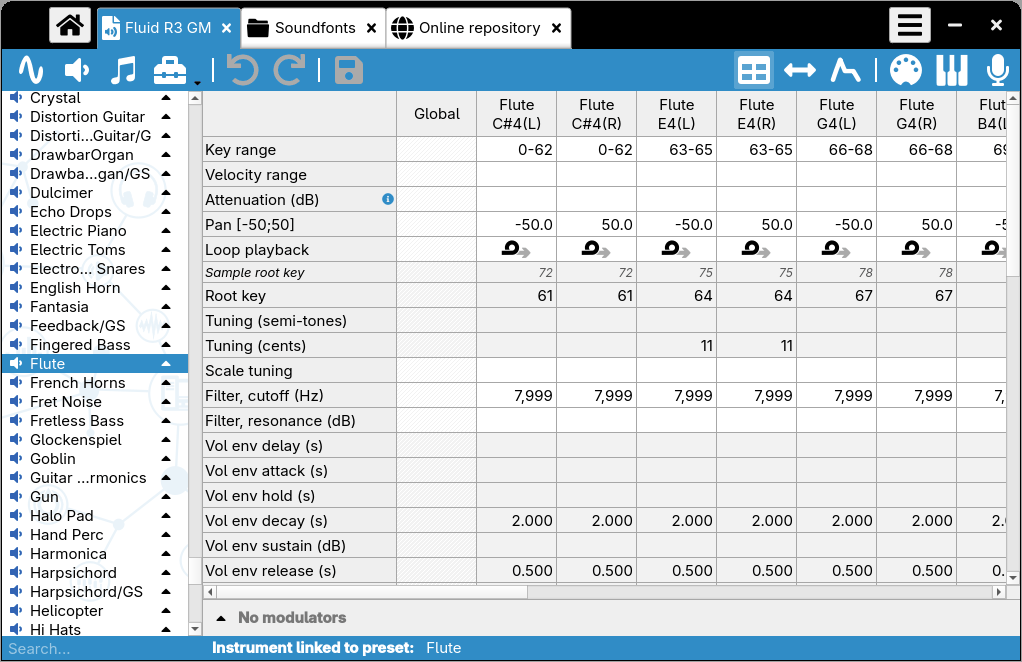
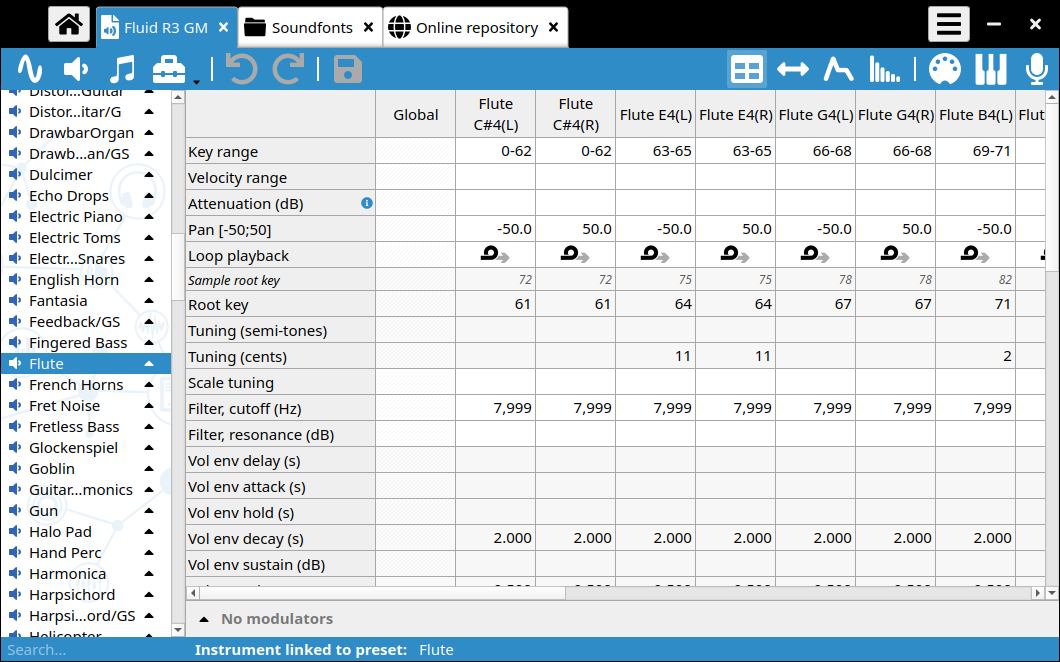
Description

Changed region(s): [[0.0, 0.0, 1.0, 1.0]]

diff --git a/README.md b/README.md
@@ -47,13 +47,15 @@ The [Polyphone plugin](#polyphone-plugin) then plays them in your DAW with the s
 - Tables showing all the parameters of samples, instruments and presets, where a value can be changed for several elements at once.
 - Sample editor: waveform with loop points, stereo editing, frequency analysis estimating the pitch and the tuning, 10-band equalizer.
 - Graphical editors for key and velocity ranges and for envelopes, with points that can be dragged with the mouse.
+- Timbre view of the instruments: the level of each harmonic heard on every key, revealing the breaks between samples, with corrections of the timbre or the level, computed notes and the removal of redundant samples.
 - Modulator editor, undo / redo, and a search field to find any sample, instrument or preset.
 
 ### Tools
 
 More than 30 tools automate the repetitive work, for example:
 
-- automatic loop of samples, cross-fade around the loop points, removal of the blank at the start;
+- automatic loop of samples, cross-fade around the loop points, trimming of the blank at the start and of the end after the loop;
+- creation of the missing samples of an instrument from the closest ones;
 - automatic positioning of the samples on the keyboard, transposition, detuning for celeste effects;
 - creation of chords, organ mixtures and natural releases;
 - volume, balance, attenuation, filtering and sound spatialization of many divisions at once;
@@ -62,6 +64,7 @@ More than 30 tools automate the repetitive work, for example:
 ### Playing
 
 - Built-in synthesizer with reverb and chorus, played with the virtual keyboard, a MIDI keyboard or the computer keyboard.
+- Tuning: reference pitch, transposition, and more than 200 historical temperaments and scales in any key or your own tuning note by note, also changed by MIDI messages.
 - Player mode turning Polyphone into a synthesizer that can play several instruments or presets at once.
 - MIDI file player: play a MIDI file with the open soundfonts, choose the soundfont and the preset of each channel, mute or solo channels, change the tempo and the pitch, and export the result to a wav file.
 - Recorder saving what you play to a wav file.
@@ -75,6 +78,7 @@ More than 30 tools automate the repetitive work, for example:
 ### And also
 
 - [Command line](https://www.polyphone.io/documentation/manual/annexes/command-line) for converting files to sf2, sf3, sfz, dls or csv, rendering a MIDI file into a wav file, or starting Polyphone as a synthesizer.
+- AI assistants: once enabled in the settings, a server following the Model Context Protocol (MCP) lets an assistant such as Claude browse, edit and measure the open soundfonts at your request, every change appearing at once in the editor and being undoable (see the [tutorial](https://www.polyphone.io/documentation/tutorials/edit-soundfonts-with-claude)).
 - Interface translated into 16 languages, with light and dark color themes or your own colors.
 
 ## Screenshots
@@ -102,6 +106,12 @@ More than 30 tools automate the repetitive work, for example:
   </tr>
   <tr>
     <td colspan="2">
+      <img src="screenshots/TimbreView.png" alt="Timbre view: the level of each harmonic heard on every key of an instrument">
+      <p align="center">Timbre view</p>
+    </td>
+  </tr>
+  <tr>
+    <td colspan="2">
       <img src="screenshots/MidiPlayer.png" alt="MIDI file player">
       <p align="center">MIDI file player</p>
     </td>
@@ -111,20 +121,22 @@ More than 30 tools automate the repetitive work, for example:
 ## Polyphone plugin
 
 <p align="center">
-  <img src="screenshots/Plugin.png" alt="Polyphone plugin: the presets of a soundfont, the parameters of the synthesizer, the reverb, the chorus and a keyboard" width="600">
+  <img src="screenshots/Plugin.png" alt="Polyphone plugin: the instruments of a soundfont, the tuning, the velocity, a temperament, the reverb, the chorus and a keyboard" width="700">
 </p>
 
 The Polyphone plugin plays soundfonts in DAWs and in any other host of VST3, CLAP, LV2 or AU (macOS) plugins.
 It uses the synthesizer of Polyphone, so a soundfont sounds the same in your projects as in the editor.
 The plugin only plays soundfonts: they are created and edited with Polyphone, then opened in the plugin.
 
-- Opens sf2, sf3, sfz and dls files with a button, from the recent files or by dropping them on the window.
-- Three playing modes: one preset on the 16 MIDI channels; one preset per channel, chosen in the plugin or by program changes like a General MIDI synthesizer (handy for MIDI files); or one preset played by an MPE controller.
+- Opens sf2, sf3, sfz and dls files with a button, from the recent files or by dropping them on the window. A soundfont can be played as soon as it is opened, even a large one: its samples are loaded in the background, those of the instruments chosen and of the notes played first.
+- Three playing modes: one instrument on the 16 MIDI channels; one instrument per channel, chosen in the plugin or by program changes like a General MIDI synthesizer (handy for MIDI files); or one instrument played by an MPE controller.
 - Separate outputs for each MIDI channel and for the effects, to mix them on different tracks.
-- Gain, reverb, chorus, transposition, tuning and temperament, all automatable by the host.
+- Tuning: reference pitch, transposition, and the temperaments and scales of Polyphone in any key or your own tuning note by note.
+- Velocity: a curve for a softer or harder touch, and the velocity-to-filter modulator of SoundFont 2.04, of SoundFont 2.01 (for older soundfonts) or none.
+- Gain, reverb and chorus. The host can automate them, as well as the transposition, the reference pitch, the temperament and the velocity settings.
 - The soundfont can be stored in the project, which then opens on another computer without the file.
-- A soundfont used by several tracks is loaded in memory only once, and nothing is read from the disk while playing.
-- Notes start exactly at the position of their MIDI message whatever the buffer size, and offline rendering is never limited by the processor.
+- A soundfont used by several tracks is loaded in memory only once, and once loaded, nothing is read from the disk while playing.
+- Low latency when playing live, or notes starting exactly at the position of their MIDI message whatever the buffer size (offline, or with a fixed latency); offline rendering is never limited by the processor.
 
 The plugin is currently in beta. Download it from its [page on the website](https://www.polyphone.io/software/plugin), and see its [manual](https://www.polyphone.io/documentation/manual/plugin) for the installation and the settings.
 
